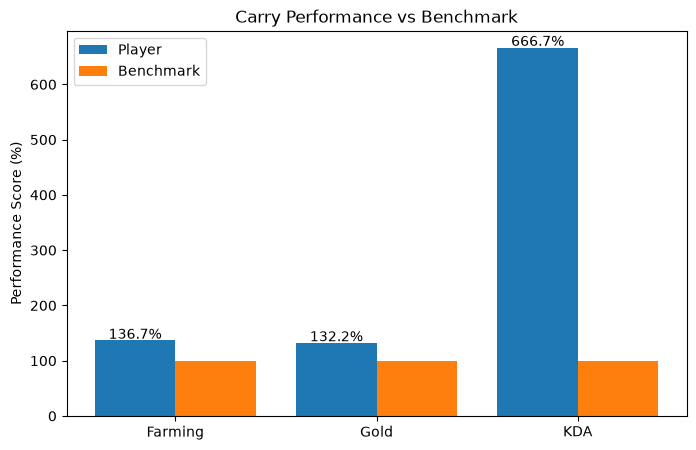
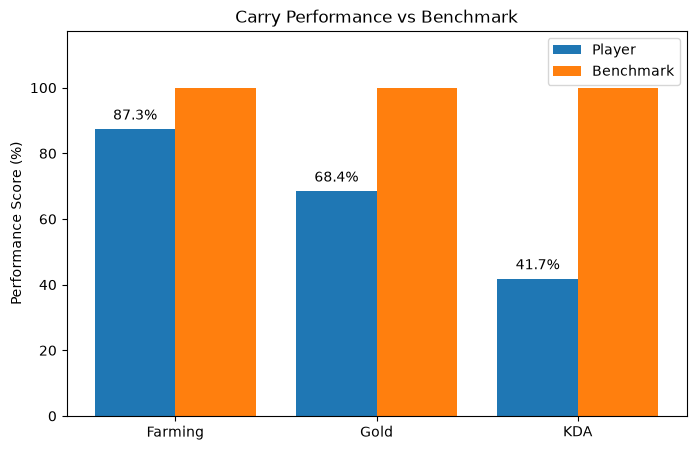
refactor: add match preparation service layer

diff --git a/report.py b/report.py
@@ -1,0 +1,77 @@
+# DOTA POS 1 COACH
+# Report Generator
+
+
+def generate_final_summary(
+    benchmark_result,
+    player
+):
+
+    print("\n")
+    print("=" * 40)
+    print("        FINAL PERFORMANCE SUMMARY")
+    print("=" * 40)
+
+
+    print("\nPLAYER:")
+    print(
+        player.get(
+            "personaname",
+            "Unknown"
+        )
+    )
+
+
+    print("\n====== BENCHMARK RESULT ======")
+
+
+    for metric, data in benchmark_result.items():
+
+        print("\n" + metric)
+
+        print(
+            "Performance:",
+            data["player"]
+        )
+
+        print(
+            "Benchmark:",
+            data["benchmark"]
+        )
+
+        print(
+            "Status:",
+            data["status"]
+        )
+
+
+    print("\n====== COACH RECOMMENDATION ======")
+
+
+    if player["deaths"] >= 8:
+
+        print(
+            "⚠ Improve positioning and fight selection."
+        )
+
+    else:
+
+        print(
+            "✓ Good survival and decision making."
+        )
+
+
+    if player["gold_per_min"] >= 550:
+
+        print(
+            "✓ Strong farming and gold efficiency."
+        )
+
+    else:
+
+        print(
+            "⚠ Improve farming consistency."
+        )
+
+
+    print("\n" + "=" * 40)

diff --git a/services.py b/services.py
@@ -1,0 +1,64 @@
+# DOTA POS 1 COACH
+# Service Layer
+
+from api import (
+    get_match,
+    get_heroes,
+    get_items
+)
+
+def prepare_match_data(match_id):
+
+    print("DEBUG 1")
+
+    data = get_match(match_id)
+
+    print("DEBUG 2")
+
+    heroes = get_heroes()
+
+    print("DEBUG 3")
+
+    items = get_items()
+
+    print("DEBUG 4")
+
+def prepare_match_data(match_id):
+
+    data = get_match(match_id)
+
+    if not data:
+
+        return None
+
+
+    heroes = get_heroes()
+
+    items = get_items()
+
+
+    hero_map = {}
+
+    for hero in heroes:
+
+        hero_map[
+            hero["id"]
+        ] = hero["localized_name"]
+
+
+    item_map = {}
+
+    for item_name, item_data in items.items():
+
+        if "id" in item_data and "dname" in item_data:
+
+            item_map[
+                item_data["id"]
+            ] = item_data["dname"]
+
+
+    return (
+        data,
+        hero_map,
+        item_map
+    )

diff --git a/main_v2.py b/main_v2.py
@@ -24,6 +24,7 @@ from analyzer import (
 )
 
 from graph import create_benchmark_chart
+from report import generate_final_summary
 
 from input_handler import get_user_input
 
@@ -36,6 +37,10 @@ from database import (
     update_note,
     check_existing_analysis,
 )
+from services import (
+    prepare_match_data
+)
+
 
 ## GREETING ##
 
@@ -78,47 +83,38 @@ def analyse_match():
 
         return
 
-    data = get_match(match_id)
+    
 
+    result = prepare_match_data(
+        match_id
+    )
 
-    if not data:
+    
 
-        print("Match data not found.")
+    result = prepare_match_data(
+    match_id
+    )
+
+    if not result:
+
+        print(
+        "Match data not found."
+    )
+
         return
 
 
-    heroes = get_heroes()
-
-    items = get_items()
-
-    #### FINDING HERO
-
-    hero_map = {}
-
-
-    for hero in heroes:
-
-        hero_map[hero["id"]] = hero["localized_name"]
-    
-    ### FINDING ITEM
-    
-    item_map = {}
-
-
-    for item_name, item_data in items.items():
-
-        if "id" in item_data and "dname" in item_data:
-
-            item_map[item_data["id"]] = item_data["dname"]
+    data, hero_map, item_map = result
     
     ### FINDING PLAYER HERO
+
+    
 
     player = find_player_by_hero(
         data["players"],
         hero_map,
         target_hero
         )
-    
 
     if player is None:
 
@@ -148,6 +144,11 @@ def analyse_match():
     benchmark_result = benchmark_analysis(player)
 
     generate_coach_report(
+        benchmark_result,
+        player
+    )
+
+    generate_final_summary(
         benchmark_result,
         player
     )

diff --git a/graph.py b/graph.py
@@ -99,3 +99,6 @@ def create_benchmark_chart(performance):
 
 
     plt.show()
+
+## 8881925243
+## spectre

diff --git a/api.py b/api.py
@@ -2,7 +2,7 @@ import requests
 
 def get_match(match_id):
 
-    url = f"https://api.opendota.com/api/matches/8873979053"
+    url = f"https://api.opendota.com/api/matches/8881799166"
 
 
 # def get_match(match_id):